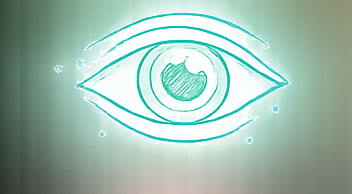
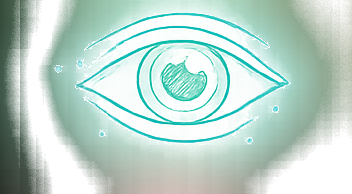
Flashcards fond transparent + interrogation obligatoire bloquante
- public/flashcards-decor : retire le cadre coloré de fond (flood-fill
  depuis les bords, détection couleur médiane des coins, anti-aliasing
  graduel) sur les 20 spécialités. Toutes les images sont désormais
  vraiment transparentes (le bg du tile colore tout l'arrière-plan).
- /(student)/layout.tsx : détecte tout parcours terminé (vidéo + fiche +
  ≥1 attempt + ≥1 review) non signé OU le parcours Pneumologie
  (bypass test). Si pending, redirige vers /cours/[id]/interrogation
  et bloque toute navigation hors de cette page (sauf /api/*, /logout
  et téléchargement certificat). L'élève ne peut reprendre les autres
  cours qu'après signature du certificat.
- Écran intro de l'interrogation : pastille 'Étape obligatoire',
  bandeau d'avertissement (la plateforme reste verrouillée), CTA
  gradient rouge-orange, retrait du bouton 'Retour' pour matérialiser
  visuellement la nature obligatoire et continue (début → fin).

Changed region(s): [[0.0, 0.0, 0.3125, 1.0], [0.6875, 0.0, 1.0, 1.0]]

diff --git a/src/app/(student)/layout.tsx b/src/app/(student)/layout.tsx
@@ -63,6 +63,90 @@ export default async function StudentLayout({ children }: { children: React.Reac
     redirect(`/formulaires/${mandatoryPending.id}`);
   }
 
+  // ───────────────────────────────────────────────────────────────
+  // Interrogation obligatoire : dès qu'un parcours est terminé
+  // (vidéo + fiche + ≥1 QCM + ≥1 flashcard review) et que le certificat
+  // n'a pas encore été signé, l'élève est redirigé vers l'interrogation
+  // et bloqué sur celle-ci jusqu'à l'avoir terminée + signée.
+  // Exceptions : la page d'interrogation elle-même, le téléchargement du
+  // certificat, les pages d'auth, et la déconnexion.
+  // ───────────────────────────────────────────────────────────────
+  const PNEUMO_COURS_ID = '33579977-020e-4c94-a561-dee9d3c7bc70';
+  const [{ data: progressRows }, { data: completionsRows }] = await Promise.all([
+    supabase
+      .from('course_progress')
+      .select('cours_id, video_watched, fiche_read, last_seen_at')
+      .eq('user_id', user.id)
+      .eq('video_watched', true)
+      .eq('fiche_read', true),
+    // eslint-disable-next-line @typescript-eslint/no-explicit-any
+    (supabase as any).from('parcours_completions')
+      .select('cours_id, certificate_signed_at')
+      .eq('user_id', user.id),
+  ]);
+  const signedSet = new Set(
+    ((completionsRows ?? []) as Array<{ cours_id: string; certificate_signed_at: string | null }>)
+      .filter((r) => !!r.certificate_signed_at)
+      .map((r) => r.cours_id)
+  );
+  // Cours candidats : video + fiche OK, pas encore signés. On ajoute
+  // Pneumologie en bypass (toujours candidat pour tester la mécanique).
+  const candidateIds = new Set<string>(
+    ((progressRows ?? []) as Array<{ cours_id: string }>)
+      .map((r) => r.cours_id)
+      .filter((id) => !signedSet.has(id))
+  );
+  if (!signedSet.has(PNEUMO_COURS_ID)) candidateIds.add(PNEUMO_COURS_ID);
+
+  let pendingInterrogationId: string | null = null;
+  if (candidateIds.size > 0) {
+    const ids = [...candidateIds];
+    // Pour qu'un cours candidate ait une interro pending, il faut aussi
+    // ≥1 qcm_attempts ET ≥1 flashcard_review (le bypass Pneumo passe outre).
+    const [{ data: atts }, { data: revs }] = await Promise.all([
+      supabase
+        .from('qcm_attempts')
+        .select('id, qcm_questions!inner(qcm_series!inner(cours_id))')
+        .eq('user_id', user.id)
+        .in('qcm_questions.qcm_series.cours_id', ids),
+      supabase
+        .from('flashcard_reviews')
+        .select('id, flashcards!inner(cours_id)')
+        .eq('user_id', user.id)
+        .in('flashcards.cours_id', ids),
+    ]);
+    type AttRow = { qcm_questions: { qcm_series: { cours_id: string } } };
+    type RevRow = { flashcards: { cours_id: string } };
+    const withQcm = new Set(
+      ((atts ?? []) as unknown as AttRow[]).map((a) => a.qcm_questions.qcm_series.cours_id)
+    );
+    const withRev = new Set(
+      ((revs ?? []) as unknown as RevRow[]).map((r) => r.flashcards.cours_id)
+    );
+    for (const id of ids) {
+      const isPneumoBypass = id === PNEUMO_COURS_ID;
+      if (isPneumoBypass || (withQcm.has(id) && withRev.has(id))) {
+        pendingInterrogationId = id;
+        break;
+      }
+    }
+  }
+
+  if (pendingInterrogationId) {
+    const interroPath = `/cours/${pendingInterrogationId}/interrogation`;
+    // Routes autorisées pendant un blocage d'interrogation :
+    //  - la page d'interrogation elle-même (et ses sous-routes éventuelles)
+    //  - le téléchargement du certificat (post-signature)
+    //  - /logout, /api/* pour permettre les actions internes (signature, etc.)
+    const isOnInterrogation = pathname.startsWith(interroPath);
+    const isCertDownload = pathname.startsWith('/api/certificate/');
+    const isLogout = pathname.startsWith('/logout');
+    const isApi = pathname.startsWith('/api/');
+    if (!isOnInterrogation && !isCertDownload && !isLogout && !isApi) {
+      redirect(interroPath);
+    }
+  }
+
   return (
     <div className="flex h-screen flex-col">
       {isImpersonating && <ImpersonationBanner targetName={impersonatedName} />}

diff --git a/src/app/(student)/cours/[cours]/interrogation/interrogation-session.tsx b/src/app/(student)/cours/[cours]/interrogation/interrogation-session.tsx
@@ -4,7 +4,7 @@ import { useRef, useState, useTransition } from 'react';
 import Link from 'next/link';
 import { useRouter } from 'next/navigation';
 import {
-  Award, ArrowLeft, ArrowRight, Check, CheckCircle2, Eraser, FileText, Loader2,
+  Award, ArrowRight, Check, CheckCircle2, Eraser, FileText, Loader2,
   Play, Trophy, X,
 } from 'lucide-react';
 import { saveInterrogationResult, saveSignature } from './actions';
@@ -78,31 +78,36 @@ export function InterrogationSession({
   if (phase === 'intro') {
     return (
       <div className="mx-auto max-w-2xl px-4 py-12 text-center">
-        <div className="mx-auto flex h-16 w-16 items-center justify-center rounded-2xl bg-[#EDE9FE] text-[#7C3AED]">
+        <div className="mx-auto flex h-16 w-16 items-center justify-center rounded-2xl bg-[linear-gradient(90deg,#E4002B_0%,#F97316_100%)] text-white">
           <Award className="h-8 w-8" />
         </div>
-        <h1 className="mt-5 text-3xl font-black tracking-tight text-(--color-ink)">
+        <p className="mt-4 inline-flex items-center gap-1.5 rounded-full bg-[#FFE4E8] px-3 py-1 text-[11px] font-extrabold uppercase tracking-[0.18em] text-[#E4002B]">
+          Étape obligatoire
+        </p>
+        <h1 className="mt-3 text-3xl font-black tracking-tight text-(--color-ink)">
           Interrogation — {coursTitre}
         </h1>
         <p className="mt-3 text-(--color-ink-soft)">
-          Vous êtes sur le point de commencer le test final du parcours. À l&rsquo;issue,
-          vous pourrez signer votre certificat de fin de parcours Major ECN.
+          Vous avez terminé l&rsquo;ensemble des contenus de ce parcours. L&rsquo;interrogation
+          finale est désormais <strong className="text-(--color-ink)">obligatoire</strong> et doit
+          être réalisée du début à la fin avant de pouvoir reprendre les autres cours.
         </p>
         <ul className="mx-auto mt-6 inline-flex flex-col gap-2 text-left text-sm text-(--color-ink)">
           <li className="flex items-center gap-2"><Check className="h-4 w-4 text-[#16A34A]" /> {total} questions QCM tirées du cours</li>
-          <li className="flex items-center gap-2"><Check className="h-4 w-4 text-[#16A34A]" /> Score affiché à la fin</li>
-          <li className="flex items-center gap-2"><Check className="h-4 w-4 text-[#16A34A]" /> Certificat signé téléchargeable en PDF</li>
+          <li className="flex items-center gap-2"><Check className="h-4 w-4 text-[#16A34A]" /> Signature électronique du certificat à la fin</li>
+          <li className="flex items-center gap-2"><Check className="h-4 w-4 text-[#16A34A]" /> Certificat PDF téléchargeable une fois signé</li>
         </ul>
+        <p className="mx-auto mt-6 max-w-md text-xs text-(--color-ink-muted)">
+          ⚠ Tant que l&rsquo;interrogation n&rsquo;est pas signée, la plateforme reste verrouillée
+          sur cette page. Prenez le temps qu&rsquo;il faut pour la finaliser sereinement.
+        </p>
         <div className="mt-8 flex justify-center gap-3">
-          <Link href={`/cours/${coursId}`} className="inline-flex items-center gap-2 rounded-xl border border-(--color-border) px-4 py-2.5 text-sm font-bold text-(--color-ink-soft)">
-            <ArrowLeft className="h-4 w-4" /> Retour
-          </Link>
           <button
             onClick={() => setPhase('quiz')}
             disabled={total === 0}
-            className="inline-flex items-center gap-2 rounded-xl bg-[#7C3AED] px-5 py-2.5 text-sm font-bold text-white shadow-sm hover:scale-[1.02] disabled:opacity-60"
+            className="inline-flex items-center gap-2 rounded-xl bg-[linear-gradient(90deg,#E4002B_0%,#F97316_100%)] px-6 py-3 text-sm font-bold text-white shadow-[0_6px_20px_-8px_rgba(228,0,43,0.6)] hover:scale-[1.02] disabled:opacity-60"
           >
-            <Play className="h-4 w-4" /> Voulez-vous commencer l&rsquo;interrogation ?
+            <Play className="h-4 w-4" /> Commencer l&rsquo;interrogation
           </button>
         </div>
         {total === 0 && (
